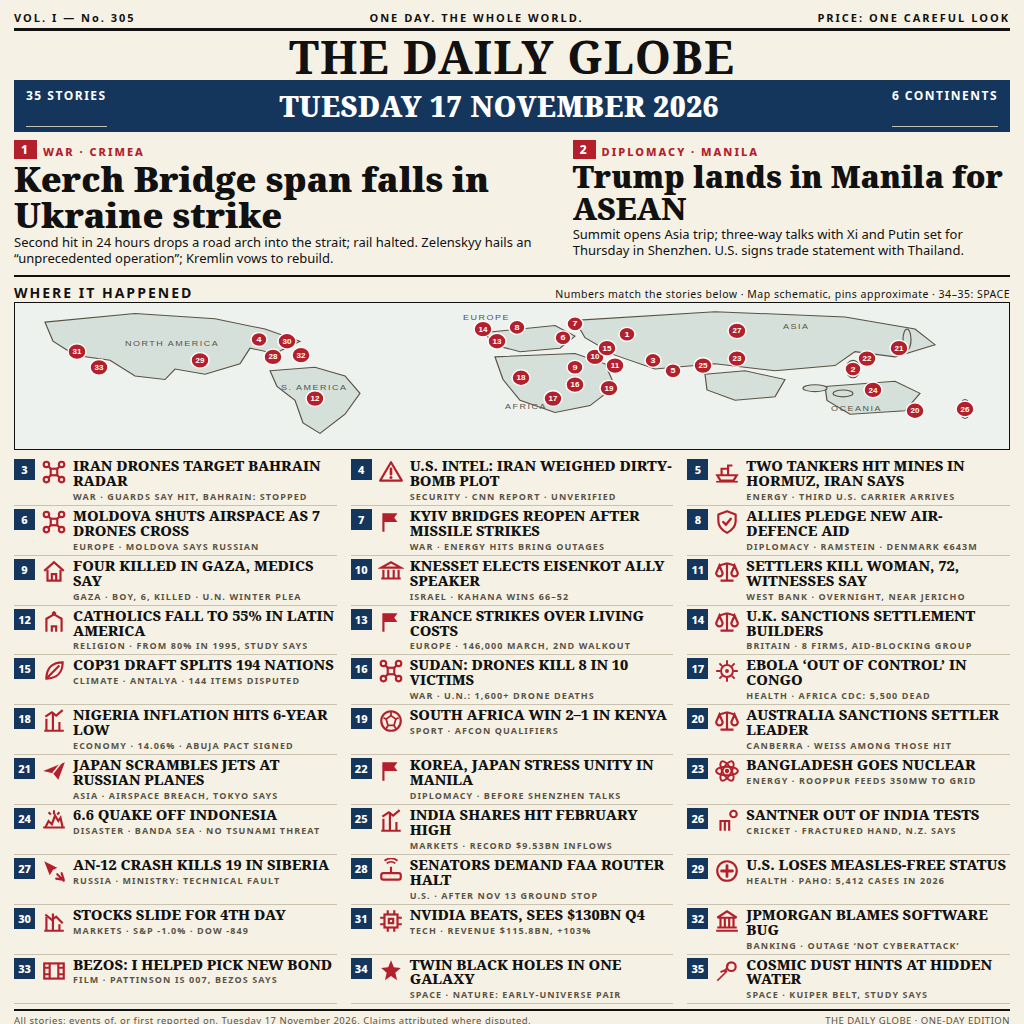
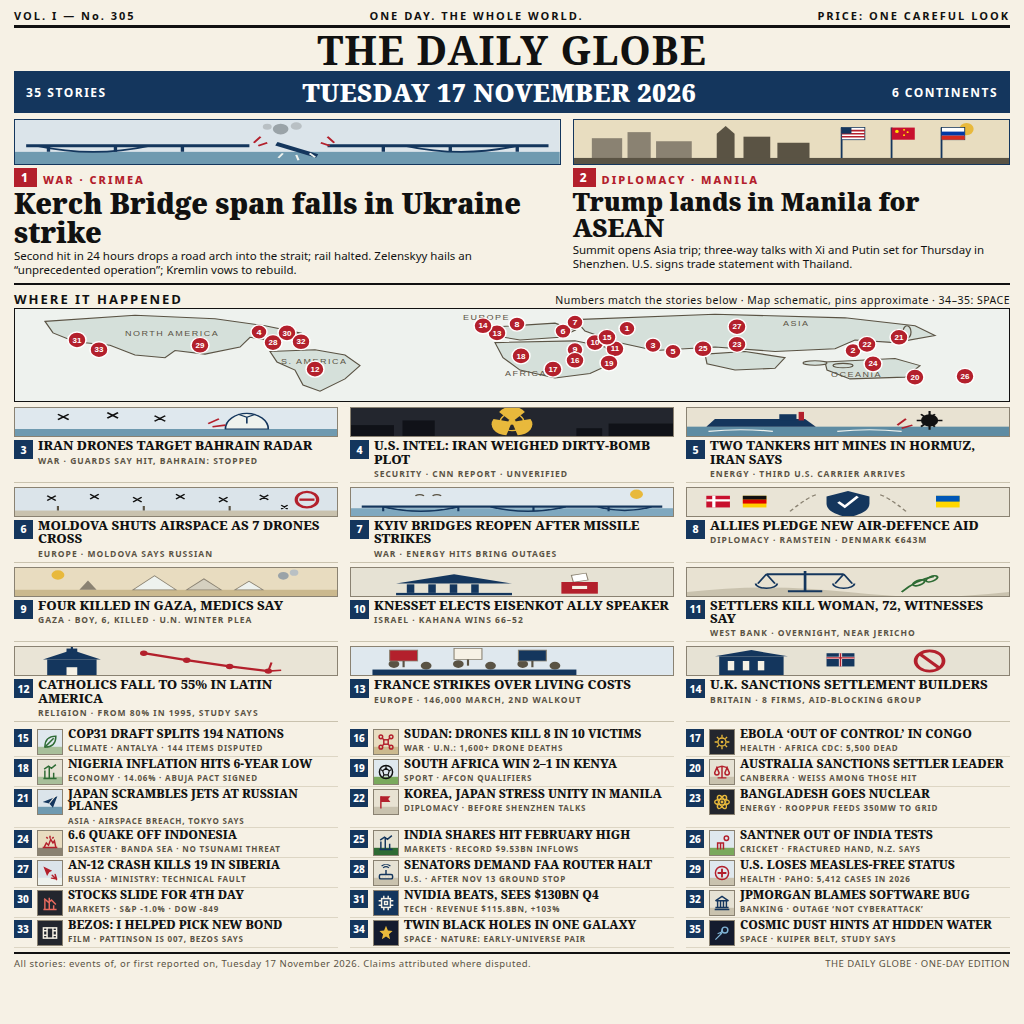
v2: illustrated features + story cards + index chips, same 35 stories

diff --git a/render.html b/render.html
@@ -4,46 +4,55 @@
   *{margin:0;padding:0;box-sizing:border-box}
   body{width:1024px;height:1024px;background:#f6f1e5;color:#111;
     font-family:"Noto Sans","DejaVu Sans",sans-serif;overflow:hidden}
-  .page{padding:10px 14px 6px}
+  .page{padding:8px 14px 5px}
   /* masthead */
   .topbar{display:flex;justify-content:space-between;font-size:11px;letter-spacing:2px;
-    font-weight:700;border-bottom:3px solid #111;padding-bottom:3px}
-  h1{font-family:"Noto Serif","DejaVu Serif",Georgia,serif;font-size:46px;line-height:1;
+    font-weight:700;border-bottom:3px solid #111;padding-bottom:2px}
+  h1{font-family:"Noto Serif","DejaVu Serif",Georgia,serif;font-size:40px;line-height:1;
     text-align:center;letter-spacing:1px;padding:2px 0 1px}
   .dateline{display:flex;justify-content:space-between;align-items:center;background:#14365d;
-    color:#fff;padding:5px 12px}
-  .dateline .d{font-family:"Noto Serif","DejaVu Serif",Georgia,serif;font-size:28px;font-weight:900;letter-spacing:.5px}
+    color:#fff;padding:4px 12px}
+  .dateline .d{font-family:"Noto Serif","DejaVu Serif",Georgia,serif;font-size:25px;font-weight:900;letter-spacing:.5px}
   .dateline .s{font-size:12px;font-weight:700;letter-spacing:1.5px}
-  /* leads */
-  .leads{display:flex;gap:12px;margin-top:8px;border-bottom:2px solid #111;padding-bottom:8px}
+  /* features */
+  .leads{display:flex;gap:12px;margin-top:6px;border-bottom:2px solid #111;padding-bottom:6px}
   .lead{flex:1}
   .lead.big{flex:1.25}
+  .featart{display:block;width:100%;height:46px;border:1px solid #14365d;margin-bottom:3px}
   .kick{font-size:11px;font-weight:800;letter-spacing:2px;color:#b3202c}
-  .lead h2{font-family:"Noto Serif","DejaVu Serif",Georgia,serif;font-size:31px;line-height:1.02;
+  .lead h2{font-family:"Noto Serif","DejaVu Serif",Georgia,serif;font-size:25px;line-height:1.02;
     font-weight:900;margin:2px 0 3px}
-  .lead.big h2{font-size:35px}
-  .lead p{font-size:13px;line-height:1.22}
+  .lead.big h2{font-size:28px}
+  .lead p{font-size:11.5px;line-height:1.22}
   .lead .num{display:inline-block;background:#b3202c;color:#fff;font-weight:800;font-size:12px;
     padding:1px 7px;margin-right:6px;vertical-align:2px}
-  .art{height:42px;margin-top:4px;background:#dbe4ea;border:1px solid #14365d}
   /* map */
-  .maphead{display:flex;justify-content:space-between;align-items:baseline;margin-top:6px}
-  .maphead b{font-size:14px;letter-spacing:2px}
+  .maphead{display:flex;justify-content:space-between;align-items:baseline;margin-top:5px}
+  .maphead b{font-size:13px;letter-spacing:2px}
   .maphead span{font-size:10.5px;letter-spacing:.5px}
   .map{border:1.5px solid #111;background:#eef2ee;position:relative}
   .map svg{display:block}
-  /* grid */
-  .grid{display:grid;grid-template-columns:1fr 1fr 1fr;gap:0 14px;margin-top:6px}
-  .s{display:flex;gap:6px;align-items:flex-start;border-bottom:1px solid #c9c2ae;
-    padding:2px 0 2px;min-height:42px}
-  .n{flex:0 0 21px;height:21px;background:#14365d;color:#fff;font-size:11px;font-weight:800;
+  /* illustrated cards */
+  .cards{display:grid;grid-template-columns:1fr 1fr 1fr;gap:4px 12px;margin-top:5px}
+  .card{border-bottom:1px solid #c9c2ae;padding-bottom:3px}
+  .cardart{display:block;width:100%;height:30px;border:1px solid #8a8272;margin-bottom:2px}
+  .row{display:flex;gap:5px;align-items:flex-start}
+  .n2{flex:0 0 19px;height:19px;background:#14365d;color:#fff;font-size:10.5px;font-weight:800;
     display:flex;align-items:center;justify-content:center;margin-top:1px}
-  .ic{flex:0 0 26px;width:26px;height:26px;color:#b3202c;margin-top:1px}
-  .h{font-family:"Noto Serif","DejaVu Serif",Georgia,serif;font-size:14.5px;font-weight:800;
+  .h{font-family:"Noto Serif","DejaVu Serif",Georgia,serif;font-size:13px;font-weight:800;
     line-height:1.03}
-  .l{font-size:9px;font-weight:700;letter-spacing:1.1px;color:#5a5344;margin-top:2px}
+  .l{font-size:8.5px;font-weight:700;letter-spacing:1px;color:#5a5344;margin-top:2px}
+  /* compact index */
+  .index{display:grid;grid-template-columns:1fr 1fr 1fr;gap:0 12px;margin-top:5px}
+  .idx{display:flex;gap:5px;align-items:flex-start;border-bottom:1px solid #ddd6c4;
+    padding:1px 0;min-height:30px}
+  .n{flex:0 0 18px;height:18px;background:#14365d;color:#fff;font-size:10px;font-weight:800;
+    display:flex;align-items:center;justify-content:center;margin-top:1px}
+  .chip{flex:0 0 26px;width:26px;height:26px;border:1px solid #8a8272;margin-top:1px}
+  .idx .h{font-size:12px}
+  .idx .l{font-size:8px;letter-spacing:.8px}
   .foot{display:flex;justify-content:space-between;font-size:9.5px;color:#5a5344;
-    border-top:2px solid #111;margin-top:5px;padding-top:3px;letter-spacing:.5px}
+    border-top:2px solid #111;margin-top:4px;padding-top:3px;letter-spacing:.5px}
 </style></head>
 <body><div class="page">
   <svg width="0" height="0" style="position:absolute"><defs>
@@ -75,7 +84,6 @@
     <symbol id="i-star" viewBox="0 0 24 24"><path d="M12 2l2.6 6.6L21 9.3l-5 4.4 1.6 6.8L12 16.7 6.4 20.5 8 13.7 3 9.3l6.4-.7z" fill="currentColor"/></symbol>
     <symbol id="i-comet" viewBox="0 0 24 24"><g fill="none" stroke="currentColor" stroke-width="2"><circle cx="16" cy="8" r="4"/><path d="M12 12L3 21M13 10l-7 3M10 13l3-7" stroke-width="1.6"/></g></symbol>
     <symbol id="i-leaf" viewBox="0 0 24 24"><g fill="none" stroke="currentColor" stroke-width="2"><path d="M5 19C5 9 11 4 20 4c0 9-5 15-15 15z"/><path d="M5 19C9 15 13 11 17 7"/></g></symbol>
-    <symbol id="i-microscope" viewBox="0 0 24 24"><g fill="none" stroke="currentColor" stroke-width="2"><path d="M6 21h12M9 18h6M10 18v-6l6-7"/><circle cx="17" cy="5" r="2.5"/><path d="M7 15h6" stroke-width="1.6"/></g></symbol>
   </defs></svg>
 
   <div class="topbar"><span>VOL. I &mdash; No. 305</span><span>ONE DAY. THE WHOLE WORLD.</span><span>PRICE: ONE CAREFUL LOOK</span></div>
@@ -84,11 +92,13 @@
 
   <div class="leads">
     <div class="lead big">
+      <svg class="featart" viewBox="0 0 488 58" preserveAspectRatio="none"><rect width="488" height="58" fill="#dbe4ea"/><rect y="42" width="488" height="16" fill="#6f9ab0"/><circle cx="238" cy="12" r="7" fill="#9aa3a8"/><circle cx="252" cy="8" r="5" fill="#b9c0c4"/><circle cx="226" cy="9" r="4" fill="#b9c0c4"/><path d="M10 34h200M280 34h198" stroke="#14365d" stroke-width="4"/><path d="M30 34v8M90 34v8M150 34v8M330 34v8M390 34v8M450 34v8" stroke="#14365d" stroke-width="3"/><path d="M20 34q50 16 100 0M350 34q50 16 100 0" fill="none" stroke="#14365d" stroke-width="2.5"/><g transform="rotate(24 250 40)"><rect x="232" y="36" width="40" height="5" fill="#14365d"/></g><path d="M240 44l-4 6M252 46l2 7M264 44l5 5" stroke="#eef2ee" stroke-width="2"/><path d="M214 30l6-8M218 34l8-4M286 30l-6-8M282 34l-8-4" stroke="#b3202c" stroke-width="2"/></svg>
       <div class="kick"><span class="num">1</span>WAR &middot; CRIMEA</div>
       <h2>Kerch Bridge span falls in Ukraine strike</h2>
       <p>Second hit in 24 hours drops a road arch into the strait; rail halted. Zelenskyy hails an &ldquo;unprecedented operation&rdquo;; Kremlin vows to rebuild.</p>
     </div>
     <div class="lead">
+      <svg class="featart" viewBox="0 0 488 58" preserveAspectRatio="none"><rect width="488" height="58" fill="#e8ddc0"/><circle cx="440" cy="12" r="8" fill="#e8b93c"/><g fill="#8a8272"><rect x="20" y="24" width="34" height="34"/><rect x="60" y="16" width="26" height="42"/><rect x="92" y="28" width="40" height="30"/></g><g fill="#5a5344"><path d="M160 58V18l10-10 10 10v40z"/><rect x="190" y="22" width="30" height="36"/><rect x="228" y="30" width="36" height="28"/></g><rect y="50" width="488" height="8" fill="#5a5344"/><g stroke="#14365d" stroke-width="2"><path d="M300 50V10M356 50V10M412 50V10"/></g><g><rect x="300" y="10" width="26" height="16" fill="#fff" stroke="#14365d" stroke-width="1"/><path d="M300 14h26M300 18h26M300 22h26" stroke="#b3202c" stroke-width="2"/><rect x="300" y="10" width="11" height="8" fill="#14365d"/></g><g><rect x="356" y="10" width="26" height="16" fill="#c8102e"/><circle cx="362" cy="15" r="2" fill="#ffde00"/><circle cx="370" cy="13" r="1.2" fill="#ffde00"/><circle cx="374" cy="16" r="1.2" fill="#ffde00"/><circle cx="370" cy="20" r="1.2" fill="#ffde00"/></g><g><rect x="412" y="10" width="26" height="16" fill="#fff" stroke="#14365d" stroke-width="1"/><rect x="412" y="15.3" width="26" height="5.4" fill="#0039a6"/><rect x="412" y="20.6" width="26" height="5.4" fill="#d52b1e"/></g></svg>
       <div class="kick"><span class="num">2</span>DIPLOMACY &middot; MANILA</div>
       <h2>Trump lands in Manila for ASEAN</h2>
       <p>Summit opens Asia trip; three-way talks with Xi and Putin set for Thursday in Shenzhen. U.S. signs trade statement with Thailand.</p>
@@ -97,69 +107,72 @@
 
   <div class="maphead"><b>WHERE IT HAPPENED</b><span>Numbers match the stories below &middot; Map schematic, pins approximate &middot; 34&ndash;35: SPACE</span></div>
   <div class="map">
-    <svg viewBox="0 0 996 168" width="996" height="146" preserveAspectRatio="none">
+    <svg viewBox="0 0 996 104" width="996" height="92" preserveAspectRatio="none">
       <g fill="#d5e0da" stroke="#5a5344" stroke-width="1.2">
-        <path d="M30 22 L120 12 L200 18 L250 30 L285 44 L260 58 L235 52 L225 70 L190 82 L160 76 L150 88 L120 84 L95 66 L60 60 L38 44 Z"/>
-        <path d="M255 78 L300 74 L330 84 L345 104 L330 128 L305 150 L288 138 L280 112 L262 96 Z"/>
-        <path d="M470 34 L540 26 L560 38 L545 52 L505 56 L478 48 Z"/>
-        <path d="M480 62 L560 58 L590 70 L600 96 L575 118 L540 126 L505 112 L488 88 Z"/>
-        <path d="M560 20 L700 10 L830 16 L900 30 L920 48 L880 62 L840 56 L820 72 L760 78 L700 70 L640 76 L600 60 L570 40 Z"/>
-        <path d="M690 82 L730 78 L770 88 L760 108 L720 112 L692 100 Z"/>
-        <path d="M810 96 L880 90 L905 104 L890 124 L835 128 L812 112 Z"/>
-        <ellipse cx="838" cy="76" rx="7" ry="10"/>
-        <ellipse cx="800" cy="98" rx="12" ry="4"/><ellipse cx="828" cy="104" rx="10" ry="4"/>
-        <ellipse cx="892" cy="42" rx="4" ry="12"/>
-        <ellipse cx="950" cy="122" rx="5" ry="11"/>
+        <path d="M30 14 L120 7 L200 11 L250 19 L285 27 L260 36 L235 32 L225 43 L190 51 L160 47 L150 55 L120 52 L95 41 L60 37 L38 27 Z"/>
+        <path d="M255 48 L300 46 L330 52 L345 64 L330 79 L305 93 L288 86 L280 69 L262 60 Z"/>
+        <path d="M470 21 L540 16 L560 24 L545 32 L505 35 L478 30 Z"/>
+        <path d="M480 38 L560 36 L590 43 L600 60 L575 73 L540 78 L505 69 L488 55 Z"/>
+        <path d="M560 12 L700 6 L830 10 L900 19 L920 30 L880 38 L840 35 L820 45 L760 48 L700 43 L640 47 L600 37 L570 25 Z"/>
+        <path d="M690 51 L730 48 L770 55 L760 67 L720 69 L692 62 Z"/>
+        <path d="M810 60 L880 56 L905 64 L890 77 L835 79 L812 69 Z"/>
+        <ellipse cx="838" cy="47" rx="7" ry="6"/>
+        <ellipse cx="800" cy="61" rx="12" ry="2.5"/><ellipse cx="828" cy="64" rx="10" ry="2.5"/>
+        <ellipse cx="892" cy="26" rx="4" ry="7"/>
+        <ellipse cx="950" cy="76" rx="5" ry="7"/>
       </g>
       <g font-family="sans-serif" font-size="9" fill="#5a5344" letter-spacing="1.5">
-        <text x="110" y="50">NORTH AMERICA</text><text x="266" y="100">S. AMERICA</text>
-        <text x="448" y="20">EUROPE</text><text x="490" y="122">AFRICA</text>
-        <text x="768" y="30">ASIA</text><text x="816" y="124">OCEANIA</text>
+        <text x="110" y="31">NORTH AMERICA</text><text x="266" y="62">S. AMERICA</text>
+        <text x="448" y="12">EUROPE</text><text x="490" y="76">AFRICA</text>
+        <text x="768" y="19">ASIA</text><text x="816" y="77">OCEANIA</text>
       </g>
       <g id="pins" font-family="sans-serif" font-weight="bold" text-anchor="middle"></g>
     </svg>
   </div>
 
-  <div class="grid" id="grid">
-    <div class="s"><span class="n">3</span><svg class="ic"><use href="#i-drone"/></svg><div><div class="h">IRAN DRONES TARGET BAHRAIN RADAR</div><div class="l">WAR &middot; GUARDS SAY HIT, BAHRAIN: STOPPED</div></div></div>
-    <div class="s"><span class="n">4</span><svg class="ic"><use href="#i-rad"/></svg><div><div class="h">U.S. INTEL: IRAN WEIGHED DIRTY-BOMB PLOT</div><div class="l">SECURITY &middot; CNN REPORT &middot; UNVERIFIED</div></div></div>
-    <div class="s"><span class="n">5</span><svg class="ic"><use href="#i-ship"/></svg><div><div class="h">TWO TANKERS HIT MINES IN HORMUZ, IRAN SAYS</div><div class="l">ENERGY &middot; THIRD U.S. CARRIER ARRIVES</div></div></div>
-    <div class="s"><span class="n">6</span><svg class="ic"><use href="#i-drone"/></svg><div><div class="h">MOLDOVA SHUTS AIRSPACE AS 7 DRONES CROSS</div><div class="l">EUROPE &middot; MOLDOVA SAYS RUSSIAN</div></div></div>
-    <div class="s"><span class="n">7</span><svg class="ic"><use href="#i-flag"/></svg><div><div class="h">KYIV BRIDGES REOPEN AFTER MISSILE STRIKES</div><div class="l">WAR &middot; ENERGY HITS BRING OUTAGES</div></div></div>
-    <div class="s"><span class="n">8</span><svg class="ic"><use href="#i-hand"/></svg><div><div class="h">ALLIES PLEDGE NEW AIR-DEFENCE AID</div><div class="l">DIPLOMACY &middot; RAMSTEIN &middot; DENMARK &euro;643M</div></div></div>
-    <div class="s"><span class="n">9</span><svg class="ic"><use href="#i-home"/></svg><div><div class="h">FOUR KILLED IN GAZA, MEDICS SAY</div><div class="l">GAZA &middot; BOY, 6, KILLED &middot; U.N. WINTER PLEA</div></div></div>
-    <div class="s"><span class="n">10</span><svg class="ic"><use href="#i-parl"/></svg><div><div class="h">KNESSET ELECTS EISENKOT ALLY SPEAKER</div><div class="l">ISRAEL &middot; KAHANA WINS 66&ndash;52</div></div></div>
-    <div class="s"><span class="n">11</span><svg class="ic"><use href="#i-scale"/></svg><div><div class="h">SETTLERS KILL WOMAN, 72, WITNESSES SAY</div><div class="l">WEST BANK &middot; OVERNIGHT, NEAR JERICHO</div></div></div>
-    <div class="s"><span class="n">12</span><svg class="ic"><use href="#i-church"/></svg><div><div class="h">CATHOLICS FALL TO 55% IN LATIN AMERICA</div><div class="l">RELIGION &middot; FROM 80% IN 1995, STUDY SAYS</div></div></div>
-    <div class="s"><span class="n">13</span><svg class="ic"><use href="#i-flag"/></svg><div><div class="h">FRANCE STRIKES OVER LIVING COSTS</div><div class="l">EUROPE &middot; 146,000 MARCH, 2ND WALKOUT</div></div></div>
-    <div class="s"><span class="n">14</span><svg class="ic"><use href="#i-scale"/></svg><div><div class="h">U.K. SANCTIONS SETTLEMENT BUILDERS</div><div class="l">BRITAIN &middot; 8 FIRMS, AID-BLOCKING GROUP</div></div></div>
-    <div class="s"><span class="n">15</span><svg class="ic"><use href="#i-leaf"/></svg><div><div class="h">COP31 DRAFT SPLITS 194 NATIONS</div><div class="l">CLIMATE &middot; ANTALYA &middot; 144 ITEMS DISPUTED</div></div></div>
-    <div class="s"><span class="n">16</span><svg class="ic"><use href="#i-drone"/></svg><div><div class="h">SUDAN: DRONES KILL 8 IN 10 VICTIMS</div><div class="l">WAR &middot; U.N.: 1,600+ DRONE DEATHS</div></div></div>
-    <div class="s"><span class="n">17</span><svg class="ic"><use href="#i-virus"/></svg><div><div class="h">EBOLA &lsquo;OUT OF CONTROL&rsquo; IN CONGO</div><div class="l">HEALTH &middot; AFRICA CDC: 5,500 DEAD</div></div></div>
-    <div class="s"><span class="n">18</span><svg class="ic"><use href="#i-chartup"/></svg><div><div class="h">NIGERIA INFLATION HITS 6-YEAR LOW</div><div class="l">ECONOMY &middot; 14.06% &middot; ABUJA PACT SIGNED</div></div></div>
-    <div class="s"><span class="n">19</span><svg class="ic"><use href="#i-ball"/></svg><div><div class="h">SOUTH AFRICA WIN 2&ndash;1 IN KENYA</div><div class="l">SPORT &middot; AFCON QUALIFIERS</div></div></div>
-    <div class="s"><span class="n">20</span><svg class="ic"><use href="#i-scale"/></svg><div><div class="h">AUSTRALIA SANCTIONS SETTLER LEADER</div><div class="l">CANBERRA &middot; WEISS AMONG THOSE HIT</div></div></div>
-    <div class="s"><span class="n">21</span><svg class="ic"><use href="#i-jet"/></svg><div><div class="h">JAPAN SCRAMBLES JETS AT RUSSIAN PLANES</div><div class="l">ASIA &middot; AIRSPACE BREACH, TOKYO SAYS</div></div></div>
-    <div class="s"><span class="n">22</span><svg class="ic"><use href="#i-flag"/></svg><div><div class="h">KOREA, JAPAN STRESS UNITY IN MANILA</div><div class="l">DIPLOMACY &middot; BEFORE SHENZHEN TALKS</div></div></div>
-    <div class="s"><span class="n">23</span><svg class="ic"><use href="#i-atom"/></svg><div><div class="h">BANGLADESH GOES NUCLEAR</div><div class="l">ENERGY &middot; ROOPPUR FEEDS 350MW TO GRID</div></div></div>
-    <div class="s"><span class="n">24</span><svg class="ic"><use href="#i-quake"/></svg><div><div class="h">6.6 QUAKE OFF INDONESIA</div><div class="l">DISASTER &middot; BANDA SEA &middot; NO TSUNAMI THREAT</div></div></div>
-    <div class="s"><span class="n">25</span><svg class="ic"><use href="#i-chartup"/></svg><div><div class="h">INDIA SHARES HIT FEBRUARY HIGH</div><div class="l">MARKETS &middot; RECORD $9.53BN INFLOWS</div></div></div>
-    <div class="s"><span class="n">26</span><svg class="ic"><use href="#i-cricket"/></svg><div><div class="h">SANTNER OUT OF INDIA TESTS</div><div class="l">CRICKET &middot; FRACTURED HAND, N.Z. SAYS</div></div></div>
-    <div class="s"><span class="n">27</span><svg class="ic"><use href="#i-crash"/></svg><div><div class="h">AN-12 CRASH KILLS 19 IN SIBERIA</div><div class="l">RUSSIA &middot; MINISTRY: TECHNICAL FAULT</div></div></div>
-    <div class="s"><span class="n">28</span><svg class="ic"><use href="#i-router"/></svg><div><div class="h">SENATORS DEMAND FAA ROUTER HALT</div><div class="l">U.S. &middot; AFTER NOV 13 GROUND STOP</div></div></div>
-    <div class="s"><span class="n">29</span><svg class="ic"><use href="#i-syr"/></svg><div><div class="h">U.S. LOSES MEASLES-FREE STATUS</div><div class="l">HEALTH &middot; PAHO: 5,412 CASES IN 2026</div></div></div>
-    <div class="s"><span class="n">30</span><svg class="ic"><use href="#i-chartdn"/></svg><div><div class="h">STOCKS SLIDE FOR 4TH DAY</div><div class="l">MARKETS &middot; S&amp;P -1.0% &middot; DOW -849</div></div></div>
-    <div class="s"><span class="n">31</span><svg class="ic"><use href="#i-chip"/></svg><div><div class="h">NVIDIA BEATS, SEES $130BN Q4</div><div class="l">TECH &middot; REVENUE $115.8BN, +103%</div></div></div>
-    <div class="s"><span class="n">32</span><svg class="ic"><use href="#i-bank"/></svg><div><div class="h">JPMORGAN BLAMES SOFTWARE BUG</div><div class="l">BANKING &middot; OUTAGE &lsquo;NOT CYBERATTACK&rsquo;</div></div></div>
-    <div class="s"><span class="n">33</span><svg class="ic"><use href="#i-film"/></svg><div><div class="h">BEZOS: I HELPED PICK NEW BOND</div><div class="l">FILM &middot; PATTINSON IS 007, BEZOS SAYS</div></div></div>
-    <div class="s"><span class="n">34</span><svg class="ic"><use href="#i-star"/></svg><div><div class="h">TWIN BLACK HOLES IN ONE GALAXY</div><div class="l">SPACE &middot; NATURE: EARLY-UNIVERSE PAIR</div></div></div>
-    <div class="s"><span class="n">35</span><svg class="ic"><use href="#i-comet"/></svg><div><div class="h">COSMIC DUST HINTS AT HIDDEN WATER</div><div class="l">SPACE &middot; KUIPER BELT, STUDY SAYS</div></div></div>
+  <div class="cards">
+    <div class="card"><svg class="cardart" viewBox="0 0 300 36" preserveAspectRatio="none"><rect width="300" height="36" fill="#dfe8ee"/><rect y="27" width="300" height="9" fill="#6f9ab0"/><path d="M196 27a20 20 0 0 1 40 0z" fill="#eef2ee" stroke="#14365d" stroke-width="1.5"/><path d="M216 12v8M216 12l8-4M216 12l-8-4" stroke="#14365d" stroke-width="1.5"/><g stroke="#111" stroke-width="1.8"><path d="M40 8l10 7M50 8l-10 7M86 6l10 7M96 6l-10 7M130 10l10 7M140 10l-10 7"/></g><path d="M180 20l10-6M184 24l12-2" stroke="#b3202c" stroke-width="2"/></svg><div class="row"><span class="n2">3</span><div><div class="h">IRAN DRONES TARGET BAHRAIN RADAR</div><div class="l">WAR &middot; GUARDS SAY HIT, BAHRAIN: STOPPED</div></div></div></div>
+    <div class="card"><svg class="cardart" viewBox="0 0 300 36" preserveAspectRatio="none"><rect width="300" height="36" fill="#23262e"/><g fill="#101218"><rect x="0" y="22" width="40" height="14"/><rect x="48" y="16" width="30" height="20"/><rect x="240" y="20" width="60" height="16"/><rect x="210" y="26" width="24" height="10"/></g><g fill="#e8b93c"><circle cx="150" cy="18" r="3.5"/><path d="M150 18L138 5a14 14 0 0 1 24 0z"/><path d="M150 18L138 5a14 14 0 0 1 24 0z" transform="rotate(120 150 18)"/><path d="M150 18L138 5a14 14 0 0 1 24 0z" transform="rotate(240 150 18)"/></g><circle cx="150" cy="18" r="11" fill="none" stroke="#e8b93c" stroke-width="1.5"/></svg><div class="row"><span class="n2">4</span><div><div class="h">U.S. INTEL: IRAN WEIGHED DIRTY-BOMB PLOT</div><div class="l">SECURITY &middot; CNN REPORT &middot; UNVERIFIED</div></div></div></div>
+    <div class="card"><svg class="cardart" viewBox="0 0 300 36" preserveAspectRatio="none"><rect width="300" height="36" fill="#e8e2d2"/><rect y="24" width="300" height="12" fill="#5e8ca3"/><path d="M18 24l8-10h84l10 10z" fill="#14365d"/><rect x="86" y="8" width="16" height="8" fill="#14365d"/><rect x="104" y="5" width="5" height="11" fill="#b3202c"/><circle cx="226" cy="16" r="8" fill="#111"/><g stroke="#111" stroke-width="2"><path d="M226 4v5M226 23v5M214 16h5M233 16h5M218 8l3 3M231 8l-3 3M218 24l3-3M231 24l-3-3"/></g><path d="M196 22l8-8M200 26l10-4" stroke="#b3202c" stroke-width="2"/><path d="M20 30q30-4 60 0M140 30q30-4 60 0" stroke="#eef2ee" stroke-width="1.5" fill="none"/></svg><div class="row"><span class="n2">5</span><div><div class="h">TWO TANKERS HIT MINES IN HORMUZ, IRAN SAYS</div><div class="l">ENERGY &middot; THIRD U.S. CARRIER ARRIVES</div></div></div></div>
+    <div class="card"><svg class="cardart" viewBox="0 0 300 36" preserveAspectRatio="none"><rect width="300" height="36" fill="#dbe4ea"/><rect y="29" width="300" height="7" fill="#c9c2ae"/><g stroke="#111" stroke-width="1.6"><path d="M30 10l8 6M38 10l-8 6M70 8l8 6M78 8l-8 6M110 12l8 6M118 12l-8 6M150 8l8 6M158 8l-8 6M190 12l8 6M198 12l-8 6M228 9l8 6M236 9l-8 6M248 22l6 5M254 22l-6 5"/></g><circle cx="272" cy="15" r="10" fill="none" stroke="#b3202c" stroke-width="3"/><path d="M265 15h14" stroke="#b3202c" stroke-width="3"/><path d="M40 29v-6M120 29v-6M200 29v-6" stroke="#5a5344" stroke-width="2"/></svg><div class="row"><span class="n2">6</span><div><div class="h">MOLDOVA SHUTS AIRSPACE AS 7 DRONES CROSS</div><div class="l">EUROPE &middot; MOLDOVA SAYS RUSSIAN</div></div></div></div>
+    <div class="card"><svg class="cardart" viewBox="0 0 300 36" preserveAspectRatio="none"><rect width="300" height="36" fill="#dfe8ee"/><circle cx="266" cy="8" r="6" fill="#e8b93c"/><rect y="26" width="300" height="10" fill="#7fa8bf"/><path d="M10 24h280" stroke="#14365d" stroke-width="3"/><path d="M30 24q35 12 70 0M130 24q35 12 70 0M230 24q25 10 50 0" fill="none" stroke="#14365d" stroke-width="2"/><path d="M30 24v6M100 24v6M170 24v6M240 24v6" stroke="#14365d" stroke-width="2"/><path d="M60 10q4-3 8 0M76 10q4-3 8 0" stroke="#5a5344" stroke-width="1.5" fill="none"/></svg><div class="row"><span class="n2">7</span><div><div class="h">KYIV BRIDGES REOPEN AFTER MISSILE STRIKES</div><div class="l">WAR &middot; ENERGY HITS BRING OUTAGES</div></div></div></div>
+    <div class="card"><svg class="cardart" viewBox="0 0 300 36" preserveAspectRatio="none"><rect width="300" height="36" fill="#e9e4d6"/><g><rect x="18" y="10" width="22" height="15" fill="#c8102e"/><path d="M25 10v15M18 16h22" stroke="#fff" stroke-width="3"/></g><g><rect x="52" y="10" width="22" height="15" fill="#ffce00"/><rect x="52" y="10" width="22" height="5" fill="#111"/><rect x="52" y="15" width="22" height="5" fill="#dd0000"/></g><g><rect x="232" y="10" width="22" height="15" fill="#ffd700"/><rect x="232" y="10" width="22" height="7.5" fill="#0057b7"/></g><path d="M96 30q18-20 26-22M204 30q-18-20-26-22" stroke="#8a8272" stroke-width="1.5" stroke-dasharray="4 3" fill="none"/><path d="M150 4l20 7v9c0 9-8 14-20 18-12-4-20-9-20-18v-9z" fill="#14365d"/><path d="M141 18l6 6 12-13" stroke="#fff" stroke-width="3" fill="none"/></svg><div class="row"><span class="n2">8</span><div><div class="h">ALLIES PLEDGE NEW AIR-DEFENCE AID</div><div class="l">DIPLOMACY &middot; RAMSTEIN &middot; DENMARK &euro;643M</div></div></div></div>
+    <div class="card"><svg class="cardart" viewBox="0 0 300 36" preserveAspectRatio="none"><rect width="300" height="36" fill="#e8dcc0"/><circle cx="40" cy="9" r="6" fill="#e8b93c"/><rect y="28" width="300" height="8" fill="#cbb98e"/><path d="M60 28l8-12 8 12z" fill="#8a8272"/><path d="M110 28L130 10l20 18z" fill="#eef2ee" stroke="#8a8272"/><path d="M160 28l16-14 16 14z" fill="#d5d0c0" stroke="#8a8272"/><path d="M205 28l13-11 13 11z" fill="#eef2ee" stroke="#8a8272"/><circle cx="250" cy="10" r="5" fill="#9aa3a8"/><circle cx="260" cy="6" r="4" fill="#b9c0c4"/></svg><div class="row"><span class="n2">9</span><div><div class="h">FOUR KILLED IN GAZA, MEDICS SAY</div><div class="l">GAZA &middot; BOY, 6, KILLED &middot; U.N. WINTER PLEA</div></div></div></div>
+    <div class="card"><svg class="cardart" viewBox="0 0 300 36" preserveAspectRatio="none"><rect width="300" height="36" fill="#e6e2d4"/><path d="M96 8l54 12H42z" fill="#14365d"/><g fill="#14365d"><rect x="52" y="21" width="7" height="11"/><rect x="72" y="21" width="7" height="11"/><rect x="92" y="21" width="7" height="11"/><rect x="112" y="21" width="7" height="11"/></g><rect x="42" y="32" width="108" height="3" fill="#14365d"/><rect x="206" y="8" width="14" height="9" fill="#fff" stroke="#8a8272" transform="rotate(-12 213 12)"/><rect x="196" y="18" width="34" height="15" fill="#b3202c"/><rect x="206" y="23" width="14" height="4" fill="#f6f1e5"/></svg><div class="row"><span class="n2">10</span><div><div class="h">KNESSET ELECTS EISENKOT ALLY SPEAKER</div><div class="l">ISRAEL &middot; KAHANA WINS 66&ndash;52</div></div></div></div>
+    <div class="card"><svg class="cardart" viewBox="0 0 300 36" preserveAspectRatio="none"><rect width="300" height="36" fill="#e8e2d2"/><path d="M0 31q75-12 150 0t150 0v5H0z" fill="#c9c2ae"/><g fill="none" stroke="#14365d"><path d="M110 4v26M94 30h32" stroke-width="2.5"/><path d="M74 8h72" stroke-width="2.5"/><path d="M74 8l-8 12M74 8l8 12M146 8l-8 12M146 8l8 12" stroke-width="1.8"/><path d="M64 20a10 6 0 0 0 20 0M136 20a10 6 0 0 0 20 0" stroke-width="1.8"/></g><g stroke="#2e6b34" stroke-width="2" fill="none"><path d="M200 31q14-16 30-20"/><ellipse cx="216" cy="19" rx="6" ry="3" transform="rotate(-30 216 19)"/><ellipse cx="228" cy="14" rx="6" ry="3" transform="rotate(-30 228 14)"/></g></svg><div class="row"><span class="n2">11</span><div><div class="h">SETTLERS KILL WOMAN, 72, WITNESSES SAY</div><div class="l">WEST BANK &middot; OVERNIGHT, NEAR JERICHO</div></div></div></div>
+    <div class="card"><svg class="cardart" viewBox="0 0 300 36" preserveAspectRatio="none"><rect width="300" height="36" fill="#e9e4d6"/><g fill="#14365d"><rect x="30" y="16" width="46" height="20"/><path d="M26 16l27-12 27 12z"/><rect x="48" y="2" width="10" height="12"/><path d="M53 0v8M49 4h8" stroke="#14365d" stroke-width="2"/></g><rect x="48" y="26" width="10" height="10" fill="#f6f1e5"/><path d="M120 8l40 9 40 8 36 6" stroke="#b3202c" stroke-width="3" fill="none"/><g fill="#b3202c"><circle cx="120" cy="8" r="3.5"/><circle cx="160" cy="17" r="3.5"/><circle cx="200" cy="25" r="3.5"/><circle cx="236" cy="31" r="3.5"/></g><path d="M236 31l12-1M236 31l3-11" stroke="#b3202c" stroke-width="2"/></svg><div class="row"><span class="n2">12</span><div><div class="h">CATHOLICS FALL TO 55% IN LATIN AMERICA</div><div class="l">RELIGION &middot; FROM 80% IN 1995, STUDY SAYS</div></div></div></div>
+    <div class="card"><svg class="cardart" viewBox="0 0 300 36" preserveAspectRatio="none"><rect width="300" height="36" fill="#dfe8ee"/><g fill="#5a5344"><circle cx="40" cy="22" r="5"/><circle cx="70" cy="24" r="5"/><circle cx="100" cy="22" r="5"/><circle cx="130" cy="24" r="5"/><circle cx="160" cy="22" r="5"/><circle cx="190" cy="24" r="5"/></g><rect x="20" y="29" width="190" height="7" fill="#14365d"/><g><rect x="36" y="4" width="26" height="14" fill="#b3202c" stroke="#8a8272"/><path d="M49 18v8" stroke="#5a5344" stroke-width="2"/><rect x="96" y="2" width="26" height="14" fill="#f6f1e5" stroke="#8a8272"/><path d="M109 16v8" stroke="#5a5344" stroke-width="2"/><rect x="156" y="4" width="26" height="14" fill="#14365d" stroke="#8a8272"/><path d="M169 18v8" stroke="#5a5344" stroke-width="2"/></g></svg><div class="row"><span class="n2">13</span><div><div class="h">FRANCE STRIKES OVER LIVING COSTS</div><div class="l">EUROPE &middot; 146,000 MARCH, 2ND WALKOUT</div></div></div></div>
+    <div class="card"><svg class="cardart" viewBox="0 0 300 36" preserveAspectRatio="none"><rect width="300" height="36" fill="#e6e2d4"/><g fill="#14365d"><rect x="30" y="12" width="60" height="24"/><path d="M26 12l34-8 34 8z"/></g><g fill="#f6f1e5"><rect x="38" y="18" width="6" height="12"/><rect x="52" y="18" width="6" height="12"/><rect x="66" y="18" width="6" height="12"/></g><g><rect x="130" y="8" width="26" height="17" fill="#14365d"/><path d="M130 14h26M143 8v17" stroke="#fff" stroke-width="3"/><path d="M130 14h26M143 8v17" stroke="#b3202c" stroke-width="1.5"/></g><circle cx="226" cy="18" r="13" fill="none" stroke="#b3202c" stroke-width="3.5"/><path d="M217 9l18 18" stroke="#b3202c" stroke-width="3.5"/></svg><div class="row"><span class="n2">14</span><div><div class="h">U.K. SANCTIONS SETTLEMENT BUILDERS</div><div class="l">BRITAIN &middot; 8 FIRMS, AID-BLOCKING GROUP</div></div></div></div>
+  </div>
+
+  <div class="index">
+    <div class="idx"><span class="n">15</span><svg class="chip" viewBox="0 0 30 30" style="color:#2e6b34"><rect width="30" height="30" fill="#dfe8ee"/><rect y="21" width="30" height="9" fill="#a8bf9a"/><use href="#i-leaf" x="4" y="4" width="22" height="22"/></svg><div><div class="h">COP31 DRAFT SPLITS 194 NATIONS</div><div class="l">CLIMATE &middot; ANTALYA &middot; 144 ITEMS DISPUTED</div></div></div>
+    <div class="idx"><span class="n">16</span><svg class="chip" viewBox="0 0 30 30" style="color:#b3202c"><rect width="30" height="30" fill="#e8dcc0"/><rect y="21" width="30" height="9" fill="#cbb98e"/><use href="#i-drone" x="4" y="4" width="22" height="22"/></svg><div><div class="h">SUDAN: DRONES KILL 8 IN 10 VICTIMS</div><div class="l">WAR &middot; U.N.: 1,600+ DRONE DEATHS</div></div></div>
+    <div class="idx"><span class="n">17</span><svg class="chip" viewBox="0 0 30 30" style="color:#e8b93c"><rect width="30" height="30" fill="#23262e"/><use href="#i-virus" x="4" y="4" width="22" height="22"/></svg><div><div class="h">EBOLA &lsquo;OUT OF CONTROL&rsquo; IN CONGO</div><div class="l">HEALTH &middot; AFRICA CDC: 5,500 DEAD</div></div></div>
+    <div class="idx"><span class="n">18</span><svg class="chip" viewBox="0 0 30 30" style="color:#2e6b34"><rect width="30" height="30" fill="#e6e2d4"/><rect y="21" width="30" height="9" fill="#a8bf9a"/><use href="#i-chartup" x="4" y="4" width="22" height="22"/></svg><div><div class="h">NIGERIA INFLATION HITS 6-YEAR LOW</div><div class="l">ECONOMY &middot; 14.06% &middot; ABUJA PACT SIGNED</div></div></div>
+    <div class="idx"><span class="n">19</span><svg class="chip" viewBox="0 0 30 30" style="color:#111111"><rect width="30" height="30" fill="#dfe8ee"/><rect y="21" width="30" height="9" fill="#7aa95c"/><use href="#i-ball" x="4" y="4" width="22" height="22"/></svg><div><div class="h">SOUTH AFRICA WIN 2&ndash;1 IN KENYA</div><div class="l">SPORT &middot; AFCON QUALIFIERS</div></div></div>
+    <div class="idx"><span class="n">20</span><svg class="chip" viewBox="0 0 30 30" style="color:#b3202c"><rect width="30" height="30" fill="#e6e2d4"/><rect y="21" width="30" height="9" fill="#c9c2ae"/><use href="#i-scale" x="4" y="4" width="22" height="22"/></svg><div><div class="h">AUSTRALIA SANCTIONS SETTLER LEADER</div><div class="l">CANBERRA &middot; WEISS AMONG THOSE HIT</div></div></div>
+    <div class="idx"><span class="n">21</span><svg class="chip" viewBox="0 0 30 30" style="color:#14365d"><rect width="30" height="30" fill="#dbe4ea"/><rect y="21" width="30" height="9" fill="#6f9ab0"/><use href="#i-jet" x="4" y="4" width="22" height="22"/></svg><div><div class="h">JAPAN SCRAMBLES JETS AT RUSSIAN PLANES</div><div class="l">ASIA &middot; AIRSPACE BREACH, TOKYO SAYS</div></div></div>
+    <div class="idx"><span class="n">22</span><svg class="chip" viewBox="0 0 30 30" style="color:#b3202c"><rect width="30" height="30" fill="#e8e2d2"/><rect y="21" width="30" height="9" fill="#c9c2ae"/><use href="#i-flag" x="4" y="4" width="22" height="22"/></svg><div><div class="h">KOREA, JAPAN STRESS UNITY IN MANILA</div><div class="l">DIPLOMACY &middot; BEFORE SHENZHEN TALKS</div></div></div>
+    <div class="idx"><span class="n">23</span><svg class="chip" viewBox="0 0 30 30" style="color:#e8b93c"><rect width="30" height="30" fill="#23262e"/><use href="#i-atom" x="4" y="4" width="22" height="22"/></svg><div><div class="h">BANGLADESH GOES NUCLEAR</div><div class="l">ENERGY &middot; ROOPPUR FEEDS 350MW TO GRID</div></div></div>
+    <div class="idx"><span class="n">24</span><svg class="chip" viewBox="0 0 30 30" style="color:#b3202c"><rect width="30" height="30" fill="#e8dcc0"/><rect y="21" width="30" height="9" fill="#8a8272"/><use href="#i-quake" x="4" y="4" width="22" height="22"/></svg><div><div class="h">6.6 QUAKE OFF INDONESIA</div><div class="l">DISASTER &middot; BANDA SEA &middot; NO TSUNAMI THREAT</div></div></div>
+    <div class="idx"><span class="n">25</span><svg class="chip" viewBox="0 0 30 30" style="color:#14365d"><rect width="30" height="30" fill="#e6e2d4"/><rect y="21" width="30" height="9" fill="#2e6b34"/><use href="#i-chartup" x="4" y="4" width="22" height="22"/></svg><div><div class="h">INDIA SHARES HIT FEBRUARY HIGH</div><div class="l">MARKETS &middot; RECORD $9.53BN INFLOWS</div></div></div>
+    <div class="idx"><span class="n">26</span><svg class="chip" viewBox="0 0 30 30" style="color:#b3202c"><rect width="30" height="30" fill="#dfe8ee"/><rect y="21" width="30" height="9" fill="#7aa95c"/><use href="#i-cricket" x="4" y="4" width="22" height="22"/></svg><div><div class="h">SANTNER OUT OF INDIA TESTS</div><div class="l">CRICKET &middot; FRACTURED HAND, N.Z. SAYS</div></div></div>
+    <div class="idx"><span class="n">27</span><svg class="chip" viewBox="0 0 30 30" style="color:#b3202c"><rect width="30" height="30" fill="#dbe4ea"/><rect y="21" width="30" height="9" fill="#eef2ee"/><use href="#i-crash" x="4" y="4" width="22" height="22"/></svg><div><div class="h">AN-12 CRASH KILLS 19 IN SIBERIA</div><div class="l">RUSSIA &middot; MINISTRY: TECHNICAL FAULT</div></div></div>
+    <div class="idx"><span class="n">28</span><svg class="chip" viewBox="0 0 30 30" style="color:#14365d"><rect width="30" height="30" fill="#e6e2d4"/><rect y="21" width="30" height="9" fill="#c9c2ae"/><use href="#i-router" x="4" y="4" width="22" height="22"/></svg><div><div class="h">SENATORS DEMAND FAA ROUTER HALT</div><div class="l">U.S. &middot; AFTER NOV 13 GROUND STOP</div></div></div>
+    <div class="idx"><span class="n">29</span><svg class="chip" viewBox="0 0 30 30" style="color:#b3202c"><rect width="30" height="30" fill="#dfe8ee"/><rect y="21" width="30" height="9" fill="#c9c2ae"/><use href="#i-syr" x="4" y="4" width="22" height="22"/></svg><div><div class="h">U.S. LOSES MEASLES-FREE STATUS</div><div class="l">HEALTH &middot; PAHO: 5,412 CASES IN 2026</div></div></div>
+    <div class="idx"><span class="n">30</span><svg class="chip" viewBox="0 0 30 30" style="color:#e86a5e"><rect width="30" height="30" fill="#23262e"/><use href="#i-chartdn" x="4" y="4" width="22" height="22"/></svg><div><div class="h">STOCKS SLIDE FOR 4TH DAY</div><div class="l">MARKETS &middot; S&amp;P -1.0% &middot; DOW -849</div></div></div>
+    <div class="idx"><span class="n">31</span><svg class="chip" viewBox="0 0 30 30" style="color:#f6f1e5"><rect width="30" height="30" fill="#14365d"/><use href="#i-chip" x="4" y="4" width="22" height="22"/></svg><div><div class="h">NVIDIA BEATS, SEES $130BN Q4</div><div class="l">TECH &middot; REVENUE $115.8BN, +103%</div></div></div>
+    <div class="idx"><span class="n">32</span><svg class="chip" viewBox="0 0 30 30" style="color:#14365d"><rect width="30" height="30" fill="#e6e2d4"/><rect y="21" width="30" height="9" fill="#c9c2ae"/><use href="#i-bank" x="4" y="4" width="22" height="22"/></svg><div><div class="h">JPMORGAN BLAMES SOFTWARE BUG</div><div class="l">BANKING &middot; OUTAGE &lsquo;NOT CYBERATTACK&rsquo;</div></div></div>
+    <div class="idx"><span class="n">33</span><svg class="chip" viewBox="0 0 30 30" style="color:#f6f1e5"><rect width="30" height="30" fill="#23262e"/><use href="#i-film" x="4" y="4" width="22" height="22"/></svg><div><div class="h">BEZOS: I HELPED PICK NEW BOND</div><div class="l">FILM &middot; PATTINSON IS 007, BEZOS SAYS</div></div></div>
+    <div class="idx"><span class="n">34</span><svg class="chip" viewBox="0 0 30 30" style="color:#e8b93c"><rect width="30" height="30" fill="#141b2e"/><use href="#i-star" x="4" y="4" width="22" height="22"/></svg><div><div class="h">TWIN BLACK HOLES IN ONE GALAXY</div><div class="l">SPACE &middot; NATURE: EARLY-UNIVERSE PAIR</div></div></div>
+    <div class="idx"><span class="n">35</span><svg class="chip" viewBox="0 0 30 30" style="color:#7fb3d5"><rect width="30" height="30" fill="#141b2e"/><use href="#i-comet" x="4" y="4" width="22" height="22"/></svg><div><div class="h">COSMIC DUST HINTS AT HIDDEN WATER</div><div class="l">SPACE &middot; KUIPER BELT, STUDY SAYS</div></div></div>
   </div>
 
   <div class="foot"><span>All stories: events of, or first reported on, Tuesday 17 November 2026. Claims attributed where disputed.</span><span>THE DAILY GLOBE &middot; ONE-DAY EDITION</span></div>
 </div>
 <script>
-const P=[[1,612,36],[2,838,76],[3,638,66],[4,244,42],[5,658,78],[6,548,40],[7,560,24],[8,502,28],[9,560,74],[10,580,62],[11,600,72],[12,300,110],[13,482,44],[14,468,30],[15,592,52],[16,560,94],[17,538,110],[18,506,86],[19,594,98],[20,900,124],[21,884,52],[22,852,64],[23,722,64],[24,858,100],[25,688,72],[26,950,122],[27,722,32],[28,258,62],[29,185,66],[30,272,44],[31,62,56],[32,286,60],[33,84,74]];
+const P=[[1,612,22],[2,838,47],[3,638,41],[4,244,26],[5,658,48],[6,548,25],[7,560,15],[8,502,17],[9,560,46],[10,580,38],[11,600,45],[12,300,68],[13,482,27],[14,468,19],[15,592,32],[16,560,58],[17,538,68],[18,506,53],[19,594,61],[20,900,77],[21,884,32],[22,852,40],[23,722,40],[24,858,62],[25,688,45],[26,950,76],[27,722,20],[28,258,38],[29,185,41],[30,272,27],[31,62,35],[32,286,37],[33,84,46]];
 const g=document.getElementById('pins');
 P.forEach(([n,x,y])=>{const c=document.createElementNS('http://www.w3.org/2000/svg','circle');c.setAttribute('cx',x);c.setAttribute('cy',y);c.setAttribute('r',n>9?9:8);c.setAttribute('fill','#b3202c');c.setAttribute('stroke','#fff');c.setAttribute('stroke-width','1.5');g.appendChild(c);const t=document.createElementNS('http://www.w3.org/2000/svg','text');t.setAttribute('x',x);t.setAttribute('y',y+3);t.setAttribute('fill','#fff');t.setAttribute('font-size',n>9?8:9);t.textContent=n;g.appendChild(t);});
 </script>
